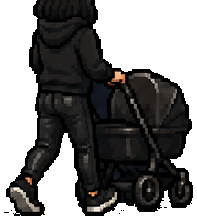
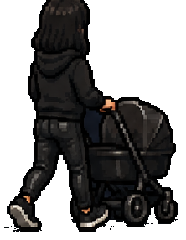
Fix girl back-view head crop; player flies in race mode

diff --git a/src/game/engine.ts b/src/game/engine.ts
@@ -8,6 +8,7 @@ import {
   GIRL_SRC,
   GIRL_BACK,
   GIRL_SIDE,
+  FLY_SRC,
   loadImage,
   NORMAL_ITEMS,
   PLAYER_SPRITES,
@@ -144,6 +145,7 @@ export class SushkaGame {
   private strollerImg: HTMLImageElement | null = null;
   private girlBack: HTMLImageElement[] = [];
   private girlSide: HTMLImageElement[] = [];
+  private flyImg: HTMLImageElement | null = null;
   private muted = false;
   private bestScore = 0;
   private savedBestCombo = 0;
@@ -202,8 +204,8 @@ export class SushkaGame {
         }).catch(() => undefined),
       );
       rest.push(
-        loadImage(STROLLER_SRC).then((img) => {
-          this.strollerImg = img;
+        loadImage(FLY_SRC).then((img) => {
+          this.flyImg = img;
         }).catch(() => undefined),
       );
       GIRL_BACK.forEach((src, i) => {
@@ -1049,7 +1051,7 @@ export class SushkaGame {
     if (foot !== this.race.lastFoot) {
       this.race.lastFoot = foot;
       const p = project(this.race.laneSmoothed, PLAYER_Z);
-      this.puff(p.x, p.y + 4, 3);
+      this.puff(p.x - this.race.flyFlip * 18, p.y + 8, 2);
     }
     if (this.phase === "playing") this.emitHud();
   }
@@ -1104,34 +1106,20 @@ export class SushkaGame {
       });
     }
 
-    const bob = Math.abs(Math.sin(this.race.walkPhase)) * 9;
-    const squash = Math.sin(this.race.walkPhase * 2) * 0.07;
+    const bob = Math.sin(this.elapsed * 7.2) * 11;
+    const squash = Math.sin(this.elapsed * 9) * 0.045;
     const switching = Math.abs(this.race.lane - this.race.laneSmoothed) > 0.06;
-    const lean = (this.race.lane - this.race.laneSmoothed) * 0.28;
-
-    drawables.push({
-      z: 0.8,
-      draw: () => {
-        const p = project(this.race.laneSmoothed, 0.8);
-        drawSprite(ctx, this.strollerImg, p.x, p.y + 10, 70 * p.scale, {
-          bob: bob * 0.45,
-          squash: squash * 0.5,
-          rot: lean * 0.4,
-        });
-      },
-    });
+    const lean = (this.race.lane - this.race.laneSmoothed) * 0.35;
 
     drawables.push({
       z: PLAYER_Z,
       draw: () => {
         const p = project(this.race.laneSmoothed, PLAYER_Z);
-        const key = playerSprite(this.race.walkPhase);
-        const img = this.playerSprites.get(key) || this.playerSprites.get("idle") || null;
-        drawSprite(ctx, img, p.x, p.y, 148 * Math.max(0.72, p.scale), {
-          flip: lean > 0.04 ? 1 : lean < -0.04 ? -1 : 1,
-          bob: bob + (switching ? 6 : 0),
+        drawSprite(ctx, this.flyImg, p.x, p.y - 4, 168 * Math.max(0.78, p.scale), {
+          flip: this.race.flyFlip,
+          bob: 16 + bob + (switching ? 8 : 0),
           squash,
-          rot: lean,
+          rot: lean + this.race.flyFlip * -0.18,
         });
       },
     });

diff --git a/src/game/race.ts b/src/game/race.ts
@@ -34,6 +34,7 @@ export interface RaceState {
   invuln: number;
   spawnCd: number;
   lastFoot: number;
+  flyFlip: number;
 }
 
 export function createRace(): RaceState {
@@ -58,11 +59,13 @@ export function resetRace(): RaceState {
     invuln: 0,
     spawnCd: 0.55,
     lastFoot: 0,
+    flyFlip: 1,
   };
 }
 
 export function raceChangeLane(s: RaceState, dir: number) {
   s.lane = Math.max(-1, Math.min(1, s.lane + dir));
+  if (dir !== 0) s.flyFlip = dir;
 }
 
 /** Linear approach so items grow steadily as they come toward the camera. */

diff --git a/src/game/assets.ts b/src/game/assets.ts
@@ -15,6 +15,7 @@ export const PLAYER_SPRITES: Record<SpriteKey, string> = {
 export const BACKGROUND_SRC = "/game/background.png?v=7";
 export const GIRL_SRC = "/game/player/girl_hero.png";
 export const STROLLER_SRC = "/game/player/stroller.png";
+export const FLY_SRC = "/game/player/fly.png";
 export const GIRL_BACK = [
   "/game/player/girl_back_0.png",
   "/game/player/girl_back_1.png",
